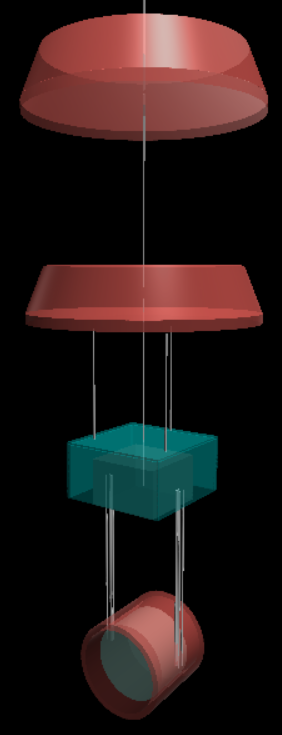
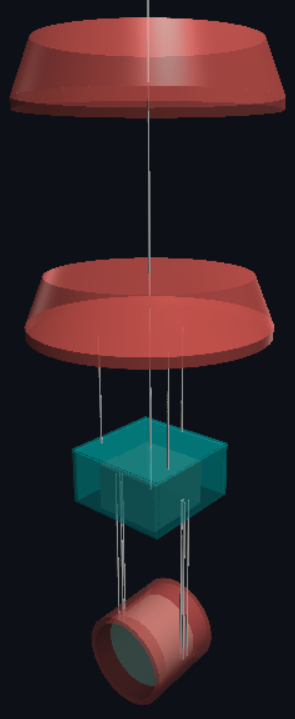
README.rst file modified again.

Changed region(s): [[0.0284, 0.0, 0.9929, 0.9791], [0.7092, 0.8567, 0.7376, 0.8873], [0.6809, 0.8873, 0.7092, 0.9179]]

diff --git a/README.md b/README.md
@@ -1,13 +1,12 @@
 # Gwsus
 
-[![Alt Text](https://img.shields.io/badge/website-gwsus-blue.svg)](https://destination-url)
 [![Documentation](https://img.shields.io/badge/docs-blue?style=flat&logo=gitbook)](https://naibafomsare.github.io/gwsus/)
 [![Documentation](https://img.shields.io/badge/github-repo-blue?logo=github)](https://naibafomsare.github.io/gwsus/)
 
 
-<img align="right" src="SR2_gwsus_2.png" alt="Long Vertical Figure" width="150" hspace="15">
+<img align="right" src="SR2_gwsus.png" alt="Long Vertical Figure" width="150" hspace="15">
 
-### Numerical simulation of the mirror suspensions of the gravitational-wave detector [KAGRA](https://gwcenter.icrr.u-tokyo.ac.jp/en/)
+### Numerical rigid-body simulation of the mirror suspensions of the gravitational-wave detector [KAGRA](https://gwcenter.icrr.u-tokyo.ac.jp/en/)
 
 
 Predicting the behaviour of mirror suspensions is a mandatory task for the successful construction and operation
@@ -20,8 +19,8 @@ shapes is necessary to identify stray resonant motion during commissioning and a
 Gwsus aims to replace SUMCOM, the software package used in KAGRA so far for the tasks described above.
 Despite the fact that SUMCOM produces scientifically sound predictions, througout the years, it has become 
 clear that KAGRA requires a replacement easy to use and written in a more accesible language. 
-SUMCOM has the disadvantage that it requires a license to run on Mathematica, and that its has
-not been updated since 2015.
+SUMCOM has the disadvantages of requiring a license to run on Mathematica, and of not being 
+maintained since 2015.
 
 
 
